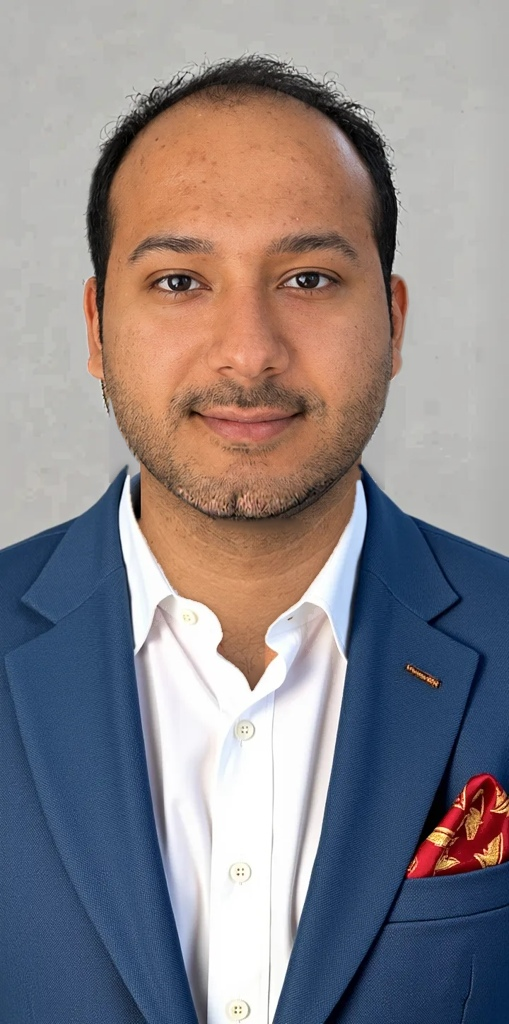
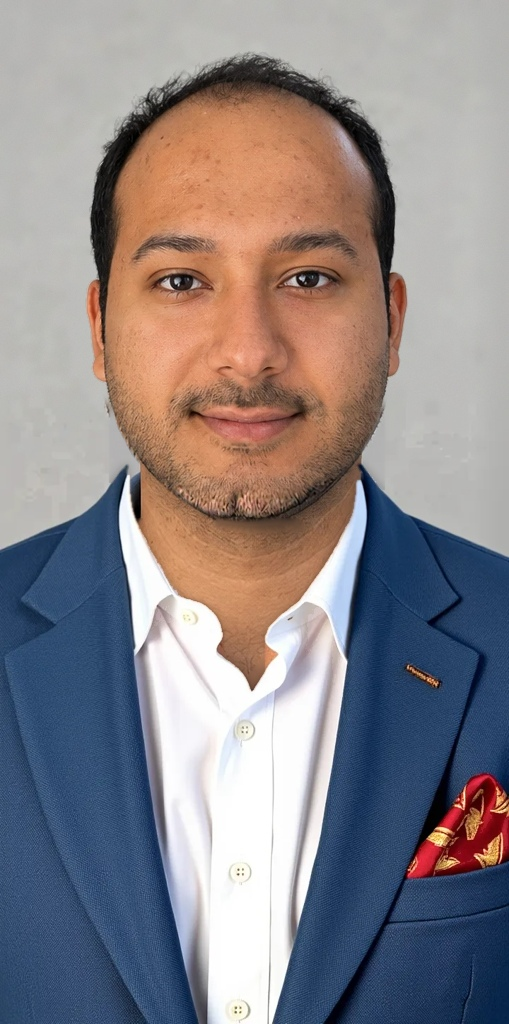
charsheet3: front view head silhouette rebuilt (ears intact, stray hair removed)
Claude-Session: https://claude.ai/code/session_019xSwsWcuiYfpWtavD3JaNU

diff --git a/studio/photos/charsheet3/ears.py b/studio/photos/charsheet3/ears.py
@@ -1,0 +1,31 @@
+"""Clean head silhouette for the front view: remove the dressed head beyond the real head
+(background reconstructed), then lay the real head with its full soft matte (ears intact)."""
+import cv2, numpy as np
+F = cv2.imread("f1_fixed.png").astype(np.float32); D = cv2.imread("d1.png").astype(np.float32)
+P = cv2.imread("p1.png").astype(np.float32)
+mp_ = cv2.imread("mp1.png", 0).astype(np.float32) / 255; md = cv2.imread("md1.png", 0).astype(np.float32) / 255
+pl, fl = np.load("p1_lm.npy"), np.load("f1_lm.npy")
+h, w = F.shape[:2]; yy = np.arange(h)[:, None]
+M, _ = cv2.estimateAffinePartial2D(pl, fl)
+Pw = cv2.warpAffine(P, M, (w, h), flags=cv2.INTER_CUBIC, borderMode=cv2.BORDER_REPLICATE)
+aw = cv2.warpAffine(mp_, M, (w, h), flags=cv2.INTER_LINEAR)
+chin = fl[152][1]; ear_lo = max(fl[177][1], fl[401][1]) + 25          # bottom of the ears / jaw corners
+zone = (yy < ear_lo).astype(np.float32)                              # head band only (above the shoulders)
+zone = cv2.GaussianBlur(zone, (0, 0), 6)
+# 1) background plate: dressed image with everything person-like in the head band inpainted to backdrop
+person = ((md > 0.3) | (aw > 0.3)) & (yy < ear_lo)
+person = cv2.dilate(person.astype(np.uint8), np.ones((7, 7), np.uint8))
+plate = cv2.inpaint(np.clip(D, 0, 255).astype(np.uint8), person, 12, cv2.INPAINT_TELEA).astype(np.float32)
+plate = cv2.GaussianBlur(plate, (0, 0), 3)
+plate += np.random.default_rng(1).normal(0, 1.3, plate.shape)
+# 2) real head with its soft matte, colour of P's backdrop is irrelevant now (matte edges only)
+#    tiny de-fringe: pull edge pixels toward the head colour, not P's grey
+edge = (aw > 0.05) & (aw < 0.95)
+Pd = Pw.copy()
+bgP = np.float32([179, 179, 179])
+Pd[edge] = np.clip((Pw[edge] - bgP * (1 - aw[edge][:, None])) / np.maximum(aw[edge][:, None], 0.25), 0, 255)
+head_band = plate * (1 - aw[..., None]) + Pd * aw[..., None]
+# 3) use it only in the head band, the rest (neck, shirt, jacket) stays as fixed
+k = zone[..., None]
+out = F * (1 - k) + head_band * k
+cv2.imwrite("f1_final.png", np.clip(out, 0, 255).astype(np.uint8)); print("ok", ear_lo)
